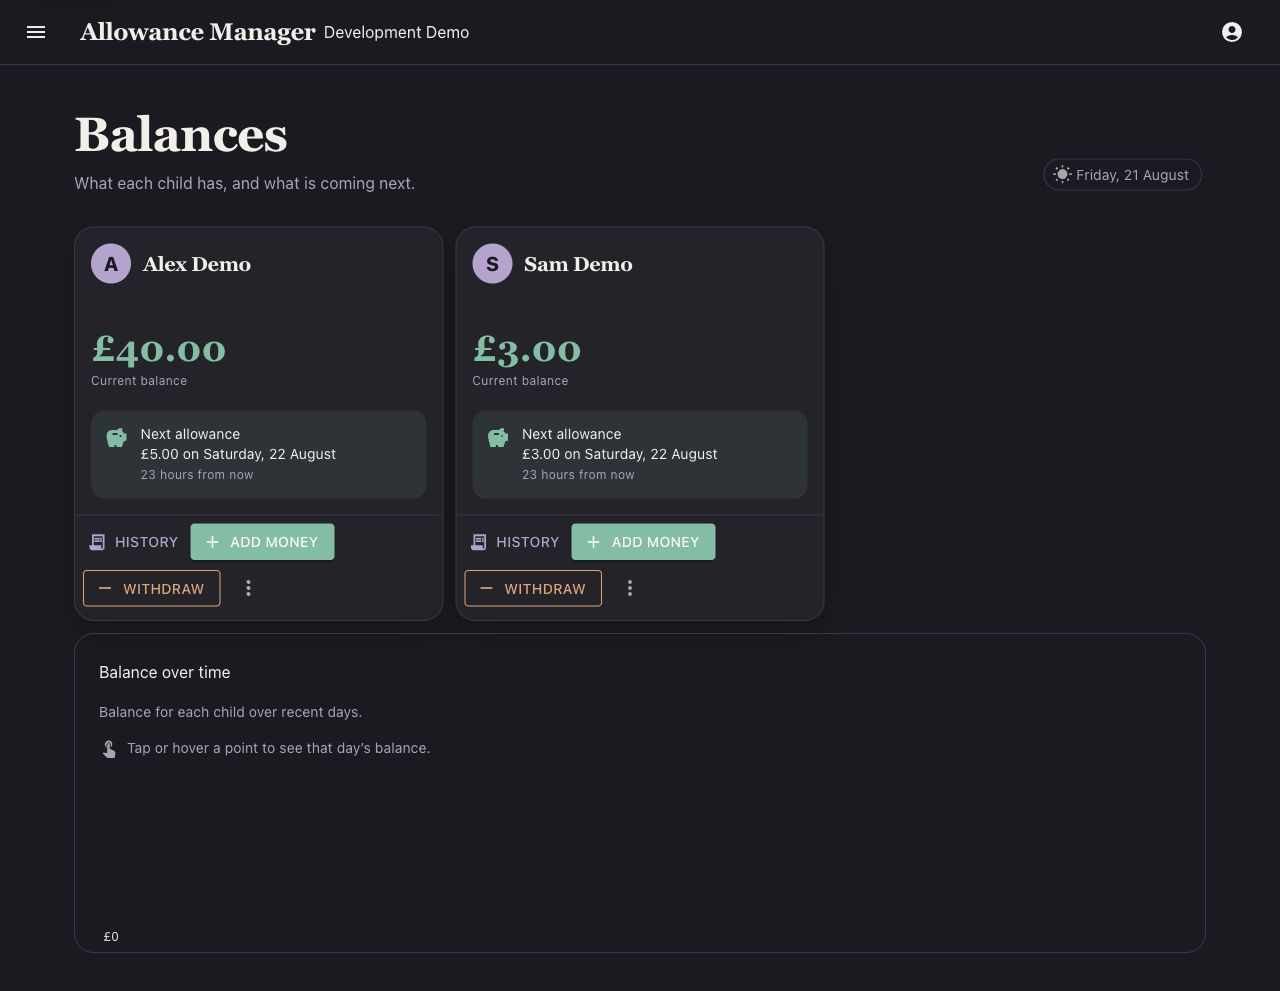
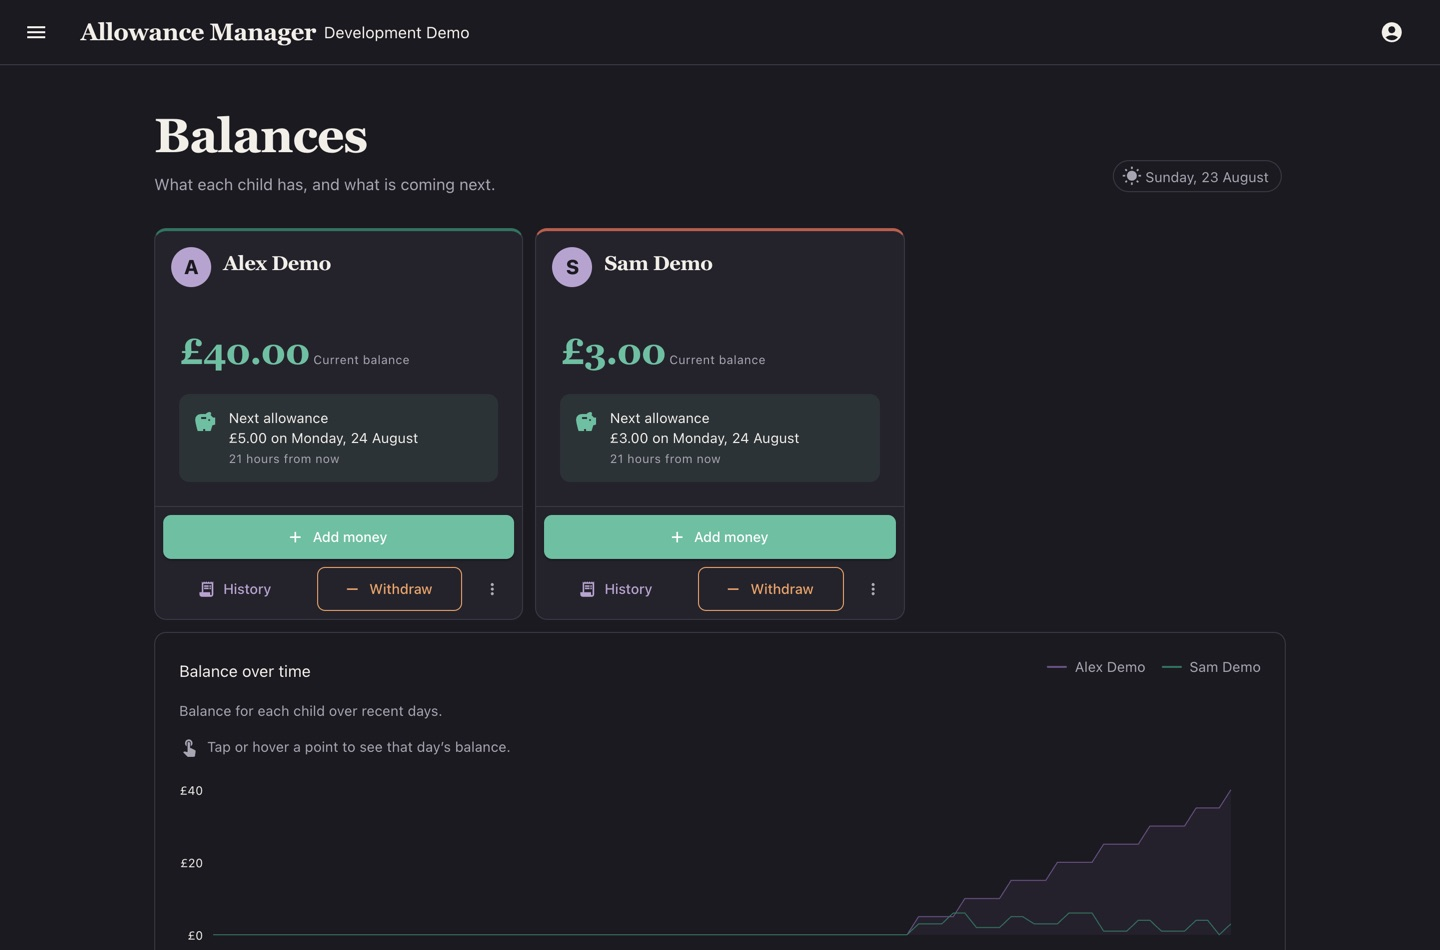
docs: refresh screenshots and document display links
Screenshots were taken before the design pass and showed neither display
links nor the current dashboard. Recapture the seeded Development
experience at 2x, and add two shots that were missing: a family board
opened through a display link, and the People page where links are made
and turned off.

README gains the display-link entry in Features, the note that a parent
keeps their own controls on a display link, and a pointer to
FrameAncestors for embedding in another dashboard.

diff --git a/README.md b/README.md
@@ -13,6 +13,7 @@ Allowance Manager is an application for tracking child allowance and managing it
 - Allowance suspension for _n_ days
 - Transaction history, export and correction
 - Reversible restore for deleted families and children
+- Read-only display links for a kitchen tablet or wall screen, no sign-in needed
 - Parent login via an existing Microsoft account (personal or work)
 
 ## Display links
@@ -28,11 +29,29 @@ Turn a link off from the People page. It stops working immediately for a new vis
 five minutes on a screen that is already showing it. Treat a display link like a house key:
 fine on a fridge, not fine in a public photo.
 
+The link decides who may look, never who may act. A parent of that family who opens the link
+while signed in keeps their usual controls; everyone else sees balances and history only.
+
+Display pages can be embedded in another dashboard, such as Home Assistant. Add the embedding
+site to the `FrameAncestors` array (see Configuration) - embedding is denied by default.
+
 ## Screenshots
 
 The screenshots below show the seeded Development experience.
 
+Balances, as a parent sees them:
+
 ![Balances dashboard](docs/screenshots/dashboard.jpg)
+
+The same family through a display link - read-only, no sign-in:
+
+![A family board opened through a display link](docs/screenshots/display-link.jpg)
+
+Family access, where display links are made and turned off:
+
+![People and display links](docs/screenshots/people.jpg)
+
+Family settings:
 
 ![Family settings](docs/screenshots/family-settings.jpg)
 
